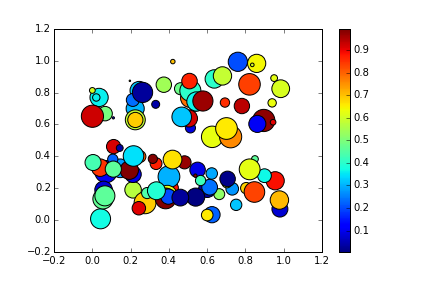
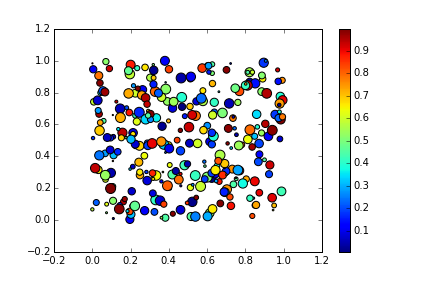
Added python.png

diff --git a/plot_rnd.py b/plot_rnd.py
@@ -4,11 +4,11 @@ import matplotlib.pyplot as plt
 # Replace '1234' in the bracket with your numeric ID
 np.random.seed(805689)
 
-n = 100
+n = 300
 x = np.random.random(n)
 y = np.random.random(n)
 c = np.random.random(n)  # color of points
-s = 500 * np.random.random(n)  # size of points
+s = 100 * np.random.random(n)  # size of points
 
 fig, ax = plt.subplots()
 im = ax.scatter(x, y, c=c, s=s, cmap=plt.cm.jet)
